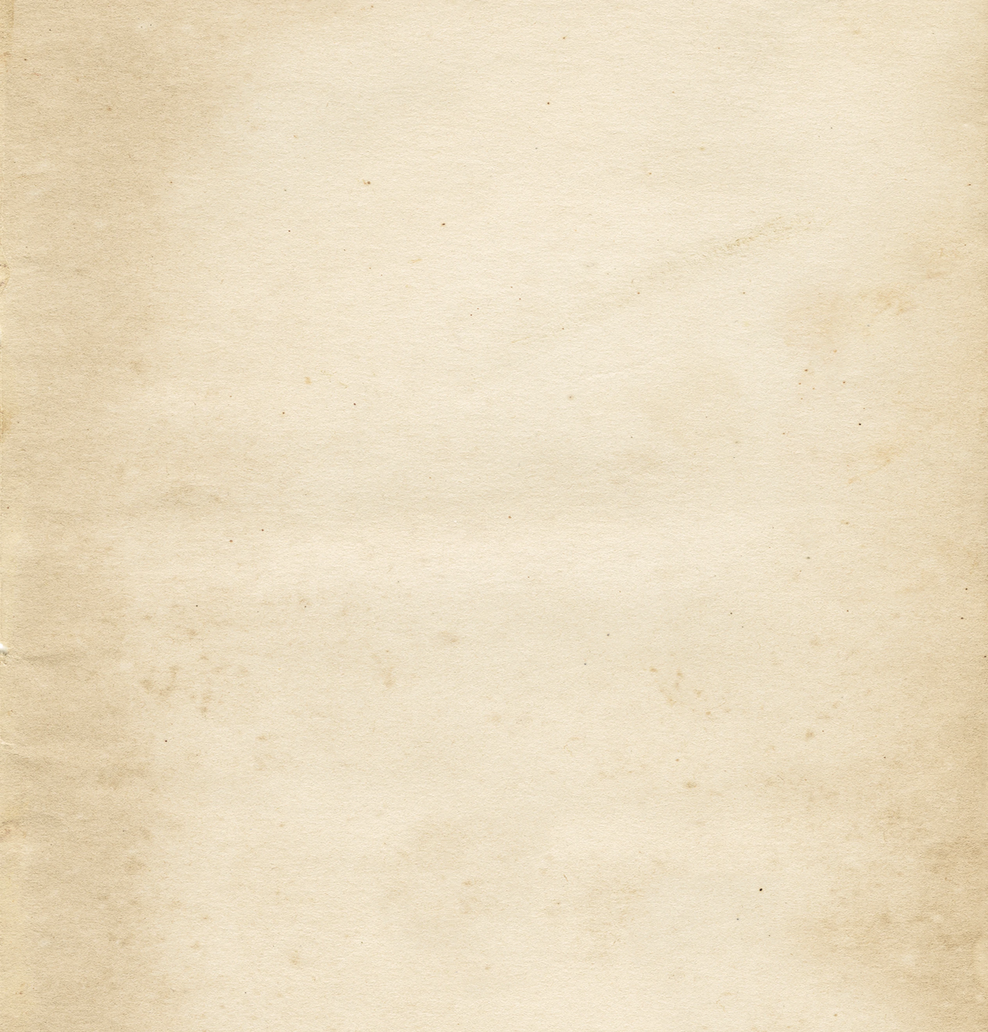
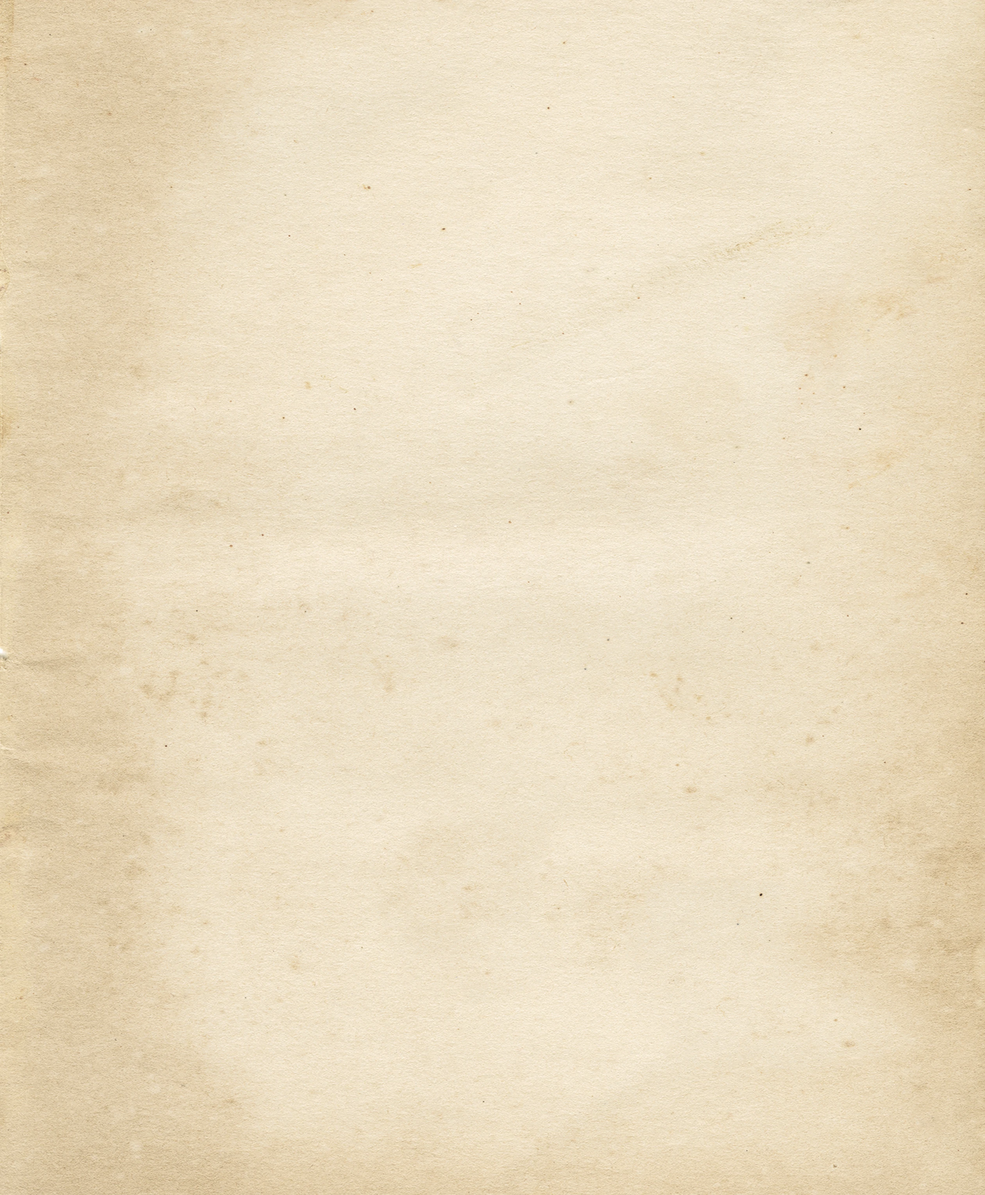
Fix more styling and the background image itself and updated release notes

diff --git a/src/App.vue b/src/App.vue
@@ -128,6 +128,7 @@ export default {
 <style>
 body {
     font-family: 'Roboto', sans-serif;
+    background-color: #F8F6F0;
     background-image: url('assets/background.webp');
 }
 

diff --git a/public/release-notes.md b/public/release-notes.md
@@ -1,7 +1,10 @@
 # Roll Of Arms Release Notes
 ## Release "Bog Runner"
 Welcome to the second release of Roll of Arms! In the full release, we have the following features available for your enjoyment:
+* Release notes are being added from here on out.
+* Some layout now matches the rule book.
 * A Forces Builder that will allow you to create multiple forces that can be named and made public/private.
+* By default, profiles are private again.  However, we have created the opportunity to allow viewing from two additional sources: users of Roll of Arms only and anyone, regardless of their enrollment in the app.
 
 ## Release "Adventurer"
 ### Release Date: 2022-02-23
